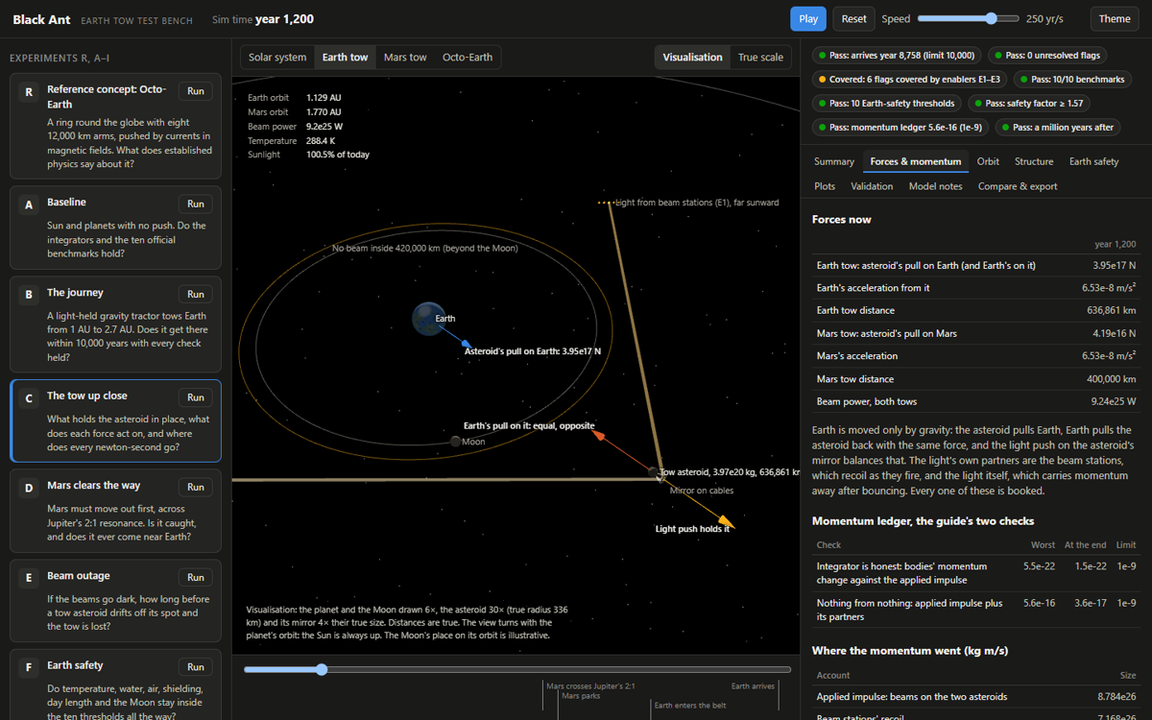
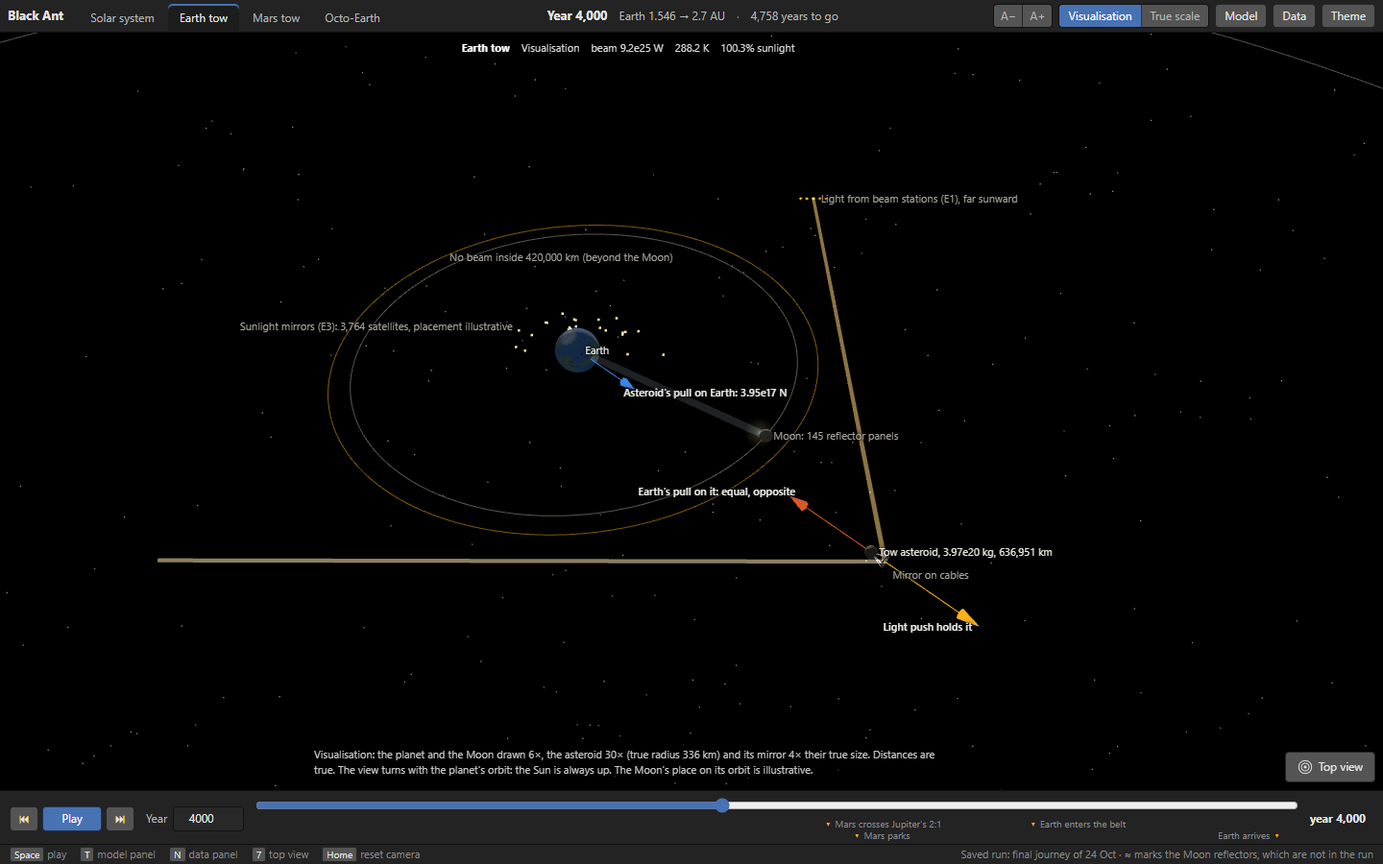
Team by name, contributions by the work each did; internal notes out of the public docs
- docs/contributions.md: one section per member by name (Ashish Bharti,
  Akhil Semwal, Madhukar Verma, Sushmit Sukla, Prabhanshu Kerketa), listing
  what each actually did with the pull requests; Claude Code noted as a tool.
- "Member N" labels: names in the risk register and enablers, none in code
  comments; README and CONTEXT.md name the team.
- Removed the questions for the organisers (rules.md, status.md) and
  docs/video-script.md from the public docs.
- problem.md: six winning conditions, two of them checked by ten items each
  (ten safety thresholds, ten benchmarks); "what we still lack" rewritten.
- Report figures re-taken from the new test bench; Q&A gives the test bench
  link and the journey's run time (about an hour and a half).

diff --git a/sim/export.py b/sim/export.py
@@ -19,6 +19,6 @@ def write_outputs(summary: dict, frames: list[dict], out_dir: Path | str | None 
     if end_state is not None:
         (out / "end_state.json").write_text(json.dumps(end_state), encoding="utf-8")
     viewer = ROOT / "viewer" / "public"
-    if viewer.is_dir():  # once Member 4's viewer exists, keep its copy current
+    if viewer.is_dir():  # keep the test bench's copy current
         (viewer / "run.json").write_text(json.dumps(run), encoding="utf-8")
     return out

diff --git a/sim/checks/structure.py b/sim/checks/structure.py
@@ -1,4 +1,4 @@
-"""Structural checks for each tow, run at every check step. Member 3 owns and extends these.
+"""Structural checks for each tow, run at every check step.
 
 Safety factor = strength / stress, and the brief requires at least 1.5 for every structure.
 Design sizes come from config.yaml (structures section); material limits from the enablers section.

diff --git a/sim/checks/safety.py b/sim/checks/safety.py
@@ -1,4 +1,4 @@
-"""Earth-safety checks, run at every check step. Member 2 owns and extends these.
+"""Earth-safety checks, run at every check step.
 
 Each returns a check() result; limits come from config.yaml (safety and enablers sections).
 """

diff --git a/sim/checks/__init__.py b/sim/checks/__init__.py
@@ -1,1 +1,1 @@
-"""Checks run on each saved frame. safety.py belongs to Member 2, structure.py to Member 3."""
+"""Checks run on each saved frame: Earth safety (safety.py) and structures (structure.py)."""

diff --git a/docs/risk-register.md b/docs/risk-register.md
@@ -9,11 +9,11 @@ Rules: the participant guide (Planetary Propulsion Hackathon); see `docs/problem
 
 | Risk | Why it matters | How we check | Counter | Status | Owner |
 | --- | --- | --- | --- | --- | --- |
-| The rulebook's safety appendix (the thresholds) is still not published | "Every threshold in the rulebook appendix" is a winning condition | Every limit sits in `config.yaml` with its source | Adopted the ten thresholds of the company's reference demo (octo-earth-simulator.vercel.app), checked every 100 days; if the rulebook differs, change the numbers and re-run | Holds (ask to confirm) | Member 5 (#9) |
+| The rulebook's safety appendix (the thresholds) is still not published | "Every threshold in the rulebook appendix" is a winning condition | Every limit sits in `config.yaml` with its source | Adopted the ten thresholds of the company's reference demo (octo-earth-simulator.vercel.app), checked every 100 days; if the rulebook differs, change the numbers and re-run | Holds (ask to confirm) | Ashish, Akhil (#9) |
 | Team size: the guide said 2 to 4 members; we are 5 | Could affect eligibility | Asked the organisers | Five members are allowed (the rule was added after the guide) | Holds | Ashish |
-| Enablers are fixed at the mid-point check-in | They cannot change afterwards | `docs/enablers.md`; every use is a flag naming its enabler | Three enablers, each bounded and matched to an allowed kind; E1 no longer claims to cancel its own recoil (it is booked) | Ready to declare | Member 3 (#4) |
-| "Fewer and smaller enablers score higher" | Scientific honesty is 15 marks | - | Each has a stated bound and a reason; we do not claim the energy bonus | Holds | Member 3 |
-| The official benchmarks | Validation is 20 marks; judges may change inputs | `uv run python -m sim.benchmarks`; runs on every pull request | All ten pass; inputs can be changed from the command line | Holds | Member 5 (#10) |
+| Enablers are fixed at the mid-point check-in | They cannot change afterwards | `docs/enablers.md`; every use is a flag naming its enabler | Three enablers, each bounded and matched to an allowed kind; E1 no longer claims to cancel its own recoil (it is booked) | Ready to declare | Ashish (#4) |
+| "Fewer and smaller enablers score higher" | Scientific honesty is 15 marks | - | Each has a stated bound and a reason; we do not claim the energy bonus | Holds | Ashish |
+| The official benchmarks | Validation is 20 marks; judges may change inputs | `uv run python -m sim.benchmarks`; runs on every pull request | All ten pass; inputs can be changed from the command line | Holds | Ashish, Akhil (#10) |
 | The 10,000-year deadline | A winning condition | Arrival year is a flag | Earth arrives in year 8,758 | Holds | Ashish |
 | "About 2.7 AU" | Exact target and tolerance | Million-year runs | Earth's orbit stays 2.698 to 2.702 AU | Holds | Ashish |
 | Moving Mars may be questioned | The brief protects Earth and life | Journey without Mars's tow | Without it Earth passes Mars at about 33,000 km; Mars has no known life | Ask organisers | Ashish |
@@ -25,31 +25,31 @@ Rules: the participant guide (Planetary Propulsion Hackathon); see `docs/problem
 
 | Risk | Why it matters | How we check | Counter | Status | Owner |
 | --- | --- | --- | --- | --- | --- |
-| **Beam outage: the asteroid falls toward Earth** | A lost asteroid passes about 15,000 km from Earth, tides about 90 times the Moon's | `sim/scenarios/outage.py`, worst phase (Mars's tow also running) | Shared E1 budget, structures sized for full power, E1 as independent stations. Holds through: full blackout 15 hours; half the stations down 1.25 days; a quarter down 2.8 days (was 3 hours) | Fixed, with a requirement: no single fault over a quarter of E1, faults answered within 12 hours | Member 3 |
-| Mars tow outage | Its asteroid would fall onto Mars | Same test, Mars's tow | Full blackout 4.75 days; half or a quarter of the stations down: 8+ days. During its 4x sprint (a few decades, asteroid at 200,000 km): full blackout 10.5 hours, half down 20 hours. Earth's tow, eased off meanwhile: 3.4 days | Fixed, with a requirement: during Mars's sprint, faults answered within 8 hours | Member 3 |
+| **Beam outage: the asteroid falls toward Earth** | A lost asteroid passes about 15,000 km from Earth, tides about 90 times the Moon's | `sim/scenarios/outage.py`, worst phase (Mars's tow also running) | Shared E1 budget, structures sized for full power, E1 as independent stations. Holds through: full blackout 15 hours; half the stations down 1.25 days; a quarter down 2.8 days (was 3 hours) | Fixed, with a requirement: no single fault over a quarter of E1, faults answered within 12 hours | Ashish |
+| Mars tow outage | Its asteroid would fall onto Mars | Same test, Mars's tow | Full blackout 4.75 days; half or a quarter of the stations down: 8+ days. During its 4x sprint (a few decades, asteroid at 200,000 km): full blackout 10.5 hours, half down 20 hours. Earth's tow, eased off meanwhile: 3.4 days | Fixed, with a requirement: during Mars's sprint, faults answered within 8 hours | Ashish |
 | Too little spare power | Steady need 8.37e25 W against an old cap of 8.5e25 W | Outage runs | Shared budget: 9% spare while Mars tows, 19% after, about a third during Mars's sprint (Earth's tow eases off) | Fixed | Ashish |
-| Structures too weak at full power | Recovery after a fault needs full power | `test_structures_hold_at_the_most_the_beam_can_push` | Earth tow sized for 1e26 W (cables 10.5 km2, anchor 10,500 km2, mirror radius 2,600 km); Mars tow for 4e25 W (4.2 km2, 4,200 km2, 1,650 km); Mars's asteroid now 1.6e20 kg at 400,000 km | Fixed | Member 3 (#5) |
+| Structures too weak at full power | Recovery after a fault needs full power | `test_structures_hold_at_the_most_the_beam_can_push` | Earth tow sized for 1e26 W (cables 10.5 km2, anchor 10,500 km2, mirror radius 2,600 km); Mars tow for 4e25 W (4.2 km2, 4,200 km2, 1,650 km); Mars's asteroid now 1.6e20 kg at 400,000 km | Fixed | Ashish (#5) |
 | Beam passes near Earth or the Moon | 1e26 W of light must not cross the Earth-Moon system | Every check: at least 420,000 km from Earth | Light arrives up to 30 degrees off the Sun line when needed | Holds | Ashish |
 | Asteroid drifts off its spot | Large drift is how a loss starts | Under 1% of its distance, every check | 10-day controller; trim and sprint motion fed forward and ramped | Holds | Ashish |
 | **Controller weaker than the pull's gradient** | A hovering asteroid is an unstable balance; at 100,000 km from Mars the pull's gradient worked on a 1.25-day timescale and the controller was only 0.62 times as strong (0.08 in the sprint), so Mars's asteroid held only through an exact model | New checks every 100 days: controller at least 3 times the gradient; step at least 3 times shorter than its timescale | Mars's asteroid 16 times heavier (1.6e20 kg) at 400,000 km, the same pull: 39 times the gradient (4.9 in the sprint), timescale 10 days (3.5 in the sprint). Earth's tow: 17 times, 6.5 days | Fixed | Ashish |
 | **Forces not booked with their reactions** | A winning condition; the guide's ledger check | `ledger.checks`, exact fractions | Bodies' momentum change equals the applied impulse to 5.5e-22 of it; applied impulse plus its partners to 5.6e-16 (limit 1e-9). Was 1.2e-8 before the stepper kept its rounding | Fixed | Ashish (#16) |
-| Tow mirror waste heat at Earth | Extra heating | Under 0.5% of sunlight | About 0.24% | Holds | Member 2 |
+| Tow mirror waste heat at Earth | Extra heating | Under 0.5% of sunlight | About 0.24% | Holds | Ashish |
 
 ## Earth's safety
 
 | Risk | Why it matters | How we check | Counter | Status | Owner |
 | --- | --- | --- | --- | --- | --- |
-| The tow pulls the Moon away | The guide: "simulate the Moon and check it stays bound" | 50-year Earth-Moon-asteroid-Sun runs at start, middle, end; the Moon's share of Earth's Hill sphere every check | Distance changes under 0.05%; the Moon sits at 0.26 of the Hill radius today and 0.095 at 2.7 AU (more tightly held) | Holds | Member 2 |
-| **Climate: the guide forbids assuming it** | Without help Earth would reach 150 K with no liquid water (our model and the demo's agree) | `sim/habitability.py`: mirrors built in 25-year batches; energy balance with ice-albedo feedback; the demo's ten thresholds every 100 days | Sunlight 0.995 to 1.010 of today's; temperature 287.8 to 288.8 K over the whole journey. Mirrors up to 8.5e8 km2 (E3 limit 1e9) | Covered (E3) | Member 2 (#1) |
-| Liquid water | At least 30% of the surface (the demo's threshold) | Share of the surface above 273 K from a latitude profile calibrated to today's 82% | Stays at about 81 to 83% | Holds | Member 2 |
-| Air | Surface pressure at least 50 kPa; N2 kept (Jeans lambda over 30) | Jeans parameter every check, exosphere temperature scaling with sunlight | Nothing removes air; lambda stays near 195 (limit 30) | Holds | Member 2 (#1) |
-| Day length | Changed by at most 1 s (the demo's threshold) | The tow asteroid's tidal torque on Earth, added up every check | About 2e-7 s over the whole journey: nothing touches Earth | Holds | Member 2 |
-| Runaway greenhouse | Absorbed sunlight under 282 W/m2 | Every check | About 238 to 241 W/m2 | Holds | Member 2 |
-| The tow outpulls the Moon's hold | Thrust under 0.01 of Earth's pull on the Moon | Every check | 0.0020 | Holds | Member 2 |
-| Magnetic shielding | At least 3 Earth radii (the demo's threshold) | Magnetopause distance every check | Grows from 10 to 13.9 Earth radii as the solar wind weakens | Holds | Member 2 |
-| **Asteroid impacts in the belt** | 2.7 AU is inside the main belt | 1,000 test asteroids on real orbits (JPL Small-Body Database), scaled to 1.2 million over 1 km | Without defence: one 1 km impact per about 127 years while crossing and 87 once parked (natural: one per 500,000). E1 nudges each one heading for Earth: 5 cm/s ten years ahead, about 1e14 W for a day | Covered (E1), said up front | Member 2 (#2) |
-| **Big asteroids pass near Earth** | Ceres, Pallas, Vesta, Hygiea cross or touch the new orbit; today: none within 0.01 AU in a million years | Million-year runs log every pass; journey checks 0.02 AU | Journey: Vesta passes twice at 0.018 AU, inside our 0.02 AU limit; each nudged 50 years ahead with 0.06 hours of a 1e25 W beam. Million years: 23 to 45 passes within 0.01 AU (three copies), each nudged with at most 0.6 hours | Covered (E1) | Member 2 (#2) |
-| **Axial tilt (seasons)** | At 2.7 AU Earth's axis turns at about 35 arcsec a year, near the 26 arcsec a year at which Jupiter and Saturn tip every orbit (s6) | `sim/spin.py` on the real spin axis from today; X9 reproduces today's 22.1 to 24.5 degrees | Plane trim onto the forced plane: swing 21.7 to 26.1 degrees (2.0 times today's; untrimmed 15 to 28). The rest: the sunlight mirrors re-aim about 1.4% of the light to keep today's seasons (the real Earth's own swing moves 0.7%) | Fixed in part; rest Covered (E3) | Ashish, Member 2 |
+| The tow pulls the Moon away | The guide: "simulate the Moon and check it stays bound" | 50-year Earth-Moon-asteroid-Sun runs at start, middle, end; the Moon's share of Earth's Hill sphere every check | Distance changes under 0.05%; the Moon sits at 0.26 of the Hill radius today and 0.095 at 2.7 AU (more tightly held) | Holds | Ashish |
+| **Climate: the guide forbids assuming it** | Without help Earth would reach 150 K with no liquid water (our model and the demo's agree) | `sim/habitability.py`: mirrors built in 25-year batches; energy balance with ice-albedo feedback; the demo's ten thresholds every 100 days | Sunlight 0.995 to 1.010 of today's; temperature 287.8 to 288.8 K over the whole journey. Mirrors up to 8.5e8 km2 (E3 limit 1e9) | Covered (E3) | Ashish (#1) |
+| Liquid water | At least 30% of the surface (the demo's threshold) | Share of the surface above 273 K from a latitude profile calibrated to today's 82% | Stays at about 81 to 83% | Holds | Ashish |
+| Air | Surface pressure at least 50 kPa; N2 kept (Jeans lambda over 30) | Jeans parameter every check, exosphere temperature scaling with sunlight | Nothing removes air; lambda stays near 195 (limit 30) | Holds | Ashish (#1) |
+| Day length | Changed by at most 1 s (the demo's threshold) | The tow asteroid's tidal torque on Earth, added up every check | About 2e-7 s over the whole journey: nothing touches Earth | Holds | Ashish |
+| Runaway greenhouse | Absorbed sunlight under 282 W/m2 | Every check | About 238 to 241 W/m2 | Holds | Ashish |
+| The tow outpulls the Moon's hold | Thrust under 0.01 of Earth's pull on the Moon | Every check | 0.0020 | Holds | Ashish |
+| Magnetic shielding | At least 3 Earth radii (the demo's threshold) | Magnetopause distance every check | Grows from 10 to 13.9 Earth radii as the solar wind weakens | Holds | Ashish |
+| **Asteroid impacts in the belt** | 2.7 AU is inside the main belt | 1,000 test asteroids on real orbits (JPL Small-Body Database), scaled to 1.2 million over 1 km | Without defence: one 1 km impact per about 127 years while crossing and 87 once parked (natural: one per 500,000). E1 nudges each one heading for Earth: 5 cm/s ten years ahead, about 1e14 W for a day | Covered (E1), said up front | Ashish (#2) |
+| **Big asteroids pass near Earth** | Ceres, Pallas, Vesta, Hygiea cross or touch the new orbit; today: none within 0.01 AU in a million years | Million-year runs log every pass; journey checks 0.02 AU | Journey: Vesta passes twice at 0.018 AU, inside our 0.02 AU limit; each nudged 50 years ahead with 0.06 hours of a 1e25 W beam. Million years: 23 to 45 passes within 0.01 AU (three copies), each nudged with at most 0.6 hours | Covered (E1) | Ashish (#2) |
+| **Axial tilt (seasons)** | At 2.7 AU Earth's axis turns at about 35 arcsec a year, near the 26 arcsec a year at which Jupiter and Saturn tip every orbit (s6) | `sim/spin.py` on the real spin axis from today; X9 reproduces today's 22.1 to 24.5 degrees | Plane trim onto the forced plane: swing 21.7 to 26.1 degrees (2.0 times today's; untrimmed 15 to 28). The rest: the sunlight mirrors re-aim about 1.4% of the light to keep today's seasons (the real Earth's own swing moves 0.7%) | Fixed in part; rest Covered (E3) | Ashish |
 | Eccentricity: sunlight swinging through the year | Untrimmed, Earth drifts to 0.09 at 2.7 AU | Million-year runs | Shape trim onto the forced 0.03: at most 0.060 over a million years (real Earth 0.051; limit 0.07) | Fixed | Ashish |
 
 ## Orbits and other bodies
@@ -69,9 +69,9 @@ Rules: the participant guide (Planetary Propulsion Hackathon); see `docs/problem
 | --- | --- | --- | --- | --- | --- |
 | Official benchmarks fail with changed inputs | Judges may change them | `sim/benchmarks.py` takes inputs from the command line; `tests/test_official_benchmarks.py` reruns 1-4 and 8-10 with changed inputs | Benchmark 4 failed at e = 0.7 (3e-6 a against 1e-6): its steps now scale with the pericentre's timescale, and it passes from e = 0 to 0.9. Benchmark 5 at coarser steps (0.5 days) misses 1e-9 (1.4e-9): the step is a method choice; at 0.25 days it passes for 5 and 20 years | Fixed | Ashish (#10) |
 | Step size | "Halve the time step and show the answer does not change" | Journey at 1 day and 0.5 day | Final design: Earth arrives in year 8,730 against 8,758.1 (0.3%), orbit 2.70 against 2.7006 AU, eccentricity 0.0333 against 0.0331; Mars parks in 5,170 against 5,168; 0 unresolved flags; the ledger closes to 2.3e-16. The big asteroids' closest passes depend on timing (Vesta 0.037 against 0.018 AU), so E1's nudges, not the miss distance, are the defence. Mars's crossing is chaotic at either step, which is why it now sprints | Holds | Ashish |
-| Integrator wrong | Everything rests on it | Official benchmarks 4 to 8; X6 against REBOUND | Pass | Holds | Member 5 |
-| Tilt model wrong | The seasons finding rests on it | X9: real solar system, 50,000 years | 22.5 to 24.0 degrees (known 22.1 to 24.5) | Holds | Member 5 |
-| Belt sample unlike the real belt | Our first sample was too cold | Compared with 20,000 real orbits | Sample drawn from real orbits | Fixed | Member 2 |
+| Integrator wrong | Everything rests on it | Official benchmarks 4 to 8; X6 against REBOUND | Pass | Holds | Ashish, Akhil |
+| Tilt model wrong | The seasons finding rests on it | X9: real solar system, 50,000 years | 22.5 to 24.0 degrees (known 22.1 to 24.5) | Holds | Ashish, Akhil |
+| Belt sample unlike the real belt | Our first sample was too cold | Compared with 20,000 real orbits | Sample drawn from real orbits | Fixed | Ashish |
 | A climate bug | The mirror schedule's 100-day growth estimate overbuilt mirrors (sunlight up to 11% high) | Final-run flags | Growth estimated over whole 25-year batches; final run: sunlight 0.995 to 1.010 of today's, temperature 287.8 to 288.8 K | Fixed | Ashish |
 | Runs are slow | Journey about 70 minutes with the exact ledger and the belt | Timings in logs | Start long runs early; `--no-belt` saves about 15 minutes | Open | Ashish |
 

diff --git a/docs/contributions.md b/docs/contributions.md
@@ -3,26 +3,54 @@
 The guide: "Careers offers are based on individual contribution, so keep a short log of who built what. Every
 member should be able to explain the code and the physics."
 
-Each member writes their own lines, as they go: the date, what you built or decided, the pull request. Keep it
-honest and short. The git history and the pull requests are the record behind every line.
+Each section lists what that person actually did, with the pull request where there is one. The git history and
+the pull requests are the record behind every line. Members: check your own section and add anything missing, in
+your own words.
 
-## Ashish (Member 1: physics core; reviews and merges)
+## Ashish Bharti (team lead)
 
-*To be written by Ashish.* The git history before 24 October evening is his: every commit up to `b101f2f`, merged
-in [#18](https://github.com/Ashish000011/black-ant/pull/18) and [#19](https://github.com/Ashish000011/black-ant/pull/19).
+- **Concept and approach:** the gravity tractor held in place by light, Mars moved out of the way first, sunlight
+  mirrors to keep Earth at today's sunlight, and the three declared enablers.
+- **The model and its results:** the simulation in `sim/` (gravity and the steppers, the tows and their beams, the
+  momentum ledger, climate and Earth-safety checks, structures, the ten official benchmarks), the final journey in
+  `results/`, the million-year runs and the Octo-Earth audit ([#18](https://github.com/Ashish000011/black-ant/pull/18),
+  [#19](https://github.com/Ashish000011/black-ant/pull/19)).
+- **The first 3D test bench**, the technical report, the risk register and the docs (#18, #19); the half-step
+  convergence check ([#24](https://github.com/Ashish000011/black-ant/pull/24)).
+- **Running the team:** the task issues (#1 to #17), reviews and merges.
 
-## Member 2 (safety and environment)
+## Akhil Semwal
 
-*To be written by Member 2.*
+- **Research and verification:** the research behind the concept, and checking the physics and the numbers.
+- Raised the idea of parking Earth in a Kirkwood gap to dodge asteroids. The check showed the gaps are gaps in
+  orbit size, not in space, so Earth stays at 2.7 AU.
+- Next: a realistic Octo-Earth reference view in the test bench
+  ([#27](https://github.com/Ashish000011/black-ant/issues/27)).
 
-## Member 3 (structures and enablers)
+## Madhukar Verma
 
-*To be written by Member 3.*
+- **`CONTEXT.md` and `CLAUDE.md`:** the whole project in one file, for new teammates and AI assistants
+  ([#23](https://github.com/Ashish000011/black-ant/pull/23)).
+- **The Blender-style test bench:** floating Scene, Model and Data panels, the top view, close-ups of the Moon and
+  the tow asteroids, the mission line, text size, the million-years explainer and the phone layout (#23).
+- **Moon reflectors for night light** (`sim/night.py` and its tests): how much moonlight is left at 2.7 AU and the
+  mirror area that brings it back (#23).
+- **Plan S study:** swapping Earth and Mars instead of pushing Mars out (`sim/scenarios/swap.py`) (#23).
+- Q&A and risk register for the swap, night light and where the tow asteroid comes from
+  ([#25](https://github.com/Ashish000011/black-ant/pull/25), in review).
 
-## Member 4 (3D test bench)
+## Sushmit Sukla
 
-*To be written by Member 4.*
+- Started this contribution log, and pointed the status page and README to the new deliverables
+  ([#21](https://github.com/Ashish000011/black-ant/pull/21)).
 
-## Member 5 (validation and pitch)
+## Prabhanshu Kerketa
 
-*To be written by Member 5.*
+- The technical report as a PDF with every number checked against `results/`, the pitch talk track, the Q&A with
+  who answers what, a voiceover tool and the submission checklist
+  ([#20](https://github.com/Ashish000011/black-ant/pull/20); to be resubmitted with the review's fixes).
+
+## Tools
+
+We used Claude Code, an AI coding assistant, throughout. Commits it helped write carry a "Co-Authored-By: Claude"
+line. Every member should still be able to explain the code and the physics behind their part.

diff --git a/CONTEXT.md b/CONTEXT.md
@@ -24,8 +24,8 @@ Earth onto the orbit shape and plane Jupiter forces at 2.7 AU (the "arrival trim
 12,000 km arm buckles past 471 km (steel) or 1,444 km (nanotube). Audited in `sim/scenarios/octo.py`, test X8.
 
 - Repo: `github.com/Ashish000011/black-ant`. Nobody pushes to `main`: branch, PR, Ashish reviews and merges.
-- Team roles (GitHub issue labels): member-1 physics, member-2 safety, member-3 structures and enablers,
-  member-4 3D viewer, member-5 validation and pitch.
+- Team: Ashish Bharti (lead), Madhukar Verma, Akhil Semwal, Sushmit Sukla, Prabhanshu Kerketa. Who did what is in
+  `docs/contributions.md`, by the work each actually did.
 
 ## 2. The six winning conditions and where we stand (final run, 24 Oct)
 
@@ -64,7 +64,7 @@ Anything new (e.g. Moon reflectors) must fit inside an existing bound. Moon refl
 | `results/` | The final run's outputs. `run.json` has one frame per 10 years with positions of **only Earth, Mars, Jupiter and the Earth tow asteroid** |
 | `viewer/` | 3D test bench (Vite 6, Three.js 0.170, plain JS). **Replays saved runs; the official numbers are not computed in the browser.** Published to GitHub Pages from `main` (`.github/workflows/pages.yml`). `src/main.js` wiring and keys; `src/scene.js` 3D views incl. top view and close-ups, `noStage` fallback without WebGL; `src/studio.js` Blender-style panels (Scene tab, Model, Data, the million-years explainer); `src/estimates.js` values derived from the run (year length, Sun size, tides, light time) and the Moon reflectors (port of `night.py`); `src/bodies.js` positions of every body (run or Kepler); `src/panels.js` the nine results tabs; `src/data.js` loading and interpolation |
 | `viewer/scripts/video.mjs` | Renders the demo video through `?capture` mode and `window.bench` (run, view, tab, time, scale, orbit, caption, frame). **Keep that API working.** |
-| `docs/` | problem, approach, enablers, report (technical report), status, risk register, qa, rules, video script, momentum record, contributions |
+| `docs/` | problem, approach, enablers, report (technical report), status, risk register, qa, rules, momentum record, contributions |
 | `tests/` | Official benchmarks, extra checks, safety and structure checks, Moon, night |
 
 Commands:
@@ -87,10 +87,10 @@ cd viewer && npm ci && npm run dev        # test bench locally
 | Runnable simulation + 3D test bench | Done; Blender-style test bench in PR #23 |
 | Technical report (8 pages max) | Drafted (`docs/report.md`); needs PDF export |
 | Conservation and momentum record | Done (`docs/momentum-record.md`) |
-| Demo video (3 min max) | Done, needs voiceover (`media/black-ant-demo.mp4`); shows the old layout, re-render after PR #23 |
+| Demo video (3 min max) | Done, captions on screen (`media/black-ant-demo.mp4`); shows the old layout, re-render after PR #23 |
 | Pitch deck (7 min) | Drafted, 13 slides (shared deck, ask Ashish) |
 | Half-step convergence check | Done (numbers in section 2) |
-| Still open | Contribution log (#17); questions to organisers (`docs/rules.md`) |
+| Still open | Each member checks their section of `docs/contributions.md` (#17) |
 
 ## 6. Known limits and gotchas
 
@@ -234,3 +234,8 @@ Ideas, not started:
   done, `swap.py` reads its 0.05 AU limit from `config.yaml` and its docstring names `--longterm`, README lists
   `swap.py`, the top bar wraps at phone width, `night.py` says its reflector area is conservative, CLAUDE.md asks
   for updates on notable changes only. Next PRs (section 10) started in their own sessions.
+- 25 Oct: Team by name. `docs/contributions.md` rewritten by name and by the work each member actually did
+  (Claude Code noted as a tool, not a member); "Member N" labels replaced by names in the risk register and
+  enablers, and dropped from code comments. Organiser questions and `docs/video-script.md` removed from the public
+  docs; the six winning conditions vs ten thresholds/benchmarks made explicit in `docs/problem.md`; report figures
+  re-taken from the new test bench. Akhil assigned the Octo-Earth reference view (#27).

diff --git a/docs/status.md b/docs/status.md
@@ -11,10 +11,10 @@ official benchmarks pass; the momentum ledger closes to 5.6 × 10^-16 (limit 10^
 | Deliverable | Status | Where |
 | --- | --- | --- |
 | Source code with README: setup, run, test | Done | this repository; [README](../README.md) |
-| Runnable simulation | Done | the Python model; the 3D test bench in `viewer/` ([ashish000011.github.io/black-ant](https://ashish000011.github.io/black-ant/) once on `main`) |
+| Runnable simulation | Done | the Python model; the 3D test bench in `viewer/` ([ashish000011.github.io/black-ant](https://ashish000011.github.io/black-ant/)) |
 | Technical report, at most 8 pages | Drafted | [report.md](report.md); export to PDF for submission |
 | Conservation and momentum record | Done | [momentum-record.md](momentum-record.md) |
-| Demo video, at most 3 minutes | Done, needs a voiceover | [media/black-ant-demo.mp4](../media/black-ant-demo.mp4) (2 min 20 s); script in [video-script.md](video-script.md) |
+| Demo video, at most 3 minutes | Done; being re-rendered with the new test bench | [media/black-ant-demo.mp4](../media/black-ant-demo.mp4) (2 min 20 s, captions on screen) |
 | Pitch deck, 7 minutes | Drafted (13 slides, timed notes) | shared deck (ask Ashish for the link); answers for questions in [qa.md](qa.md) |
 | Mid-point review, 5 minutes | Ready | shared deck (ask Ashish); enablers declared in [enablers.md](enablers.md) |
 
@@ -30,7 +30,7 @@ official benchmarks pass; the momentum ledger closes to 5.6 × 10^-16 (limit 10^
 | #6 Octo-Earth audit: arm stress and slide | Done: `sim/scenarios/octo.py`; slide in both decks |
 | #7 3D viewer playing the run | Done: `viewer/` |
 | #8 Safety panel, Octo-Earth tab, deploy, demo clips | Done: tabs, Octo-Earth view, Pages workflow, demo video |
-| #9 Rules from the guide, questions for the organisers | Done: [rules.md](rules.md) |
+| #9 Rules from the guide | Done: [rules.md](rules.md) |
 | #10 Official benchmarks and extra checks | Done: all pass, also with changed inputs |
 | #11 Pitch deck, demo video, Q&A, submission | Deck, video and Q&A done; submission left |
 | #12 Octo-Earth scenario (now test X8) | Done |
@@ -38,15 +38,14 @@ official benchmarks pass; the momentum ledger closes to 5.6 × 10^-16 (limit 10^
 | #14 Mid-point check-in: baseline and enablers | Ready to present |
 | #15 Technical report | Drafted: [report.md](report.md) |
 | #16 Conservation and momentum record | Done |
-| #17 Contribution log | Started: [contributions.md](contributions.md) has a section for each member; each adds their own lines |
+| #17 Contribution log | Written by name and by the work each did: [contributions.md](contributions.md); each member checks their section |
 
 ## Still to do before the final
 
-1. **Report to PDF**, deck rehearsal, **voiceover** on the video.
-2. **Contribution log** (#17): careers offers go by individual contribution, so each member adds what they did to
-   [contributions.md](contributions.md).
-3. **Ask the organisers** the questions in [rules.md](rules.md): the rulebook's safety thresholds, moving Mars,
-   asteroid defence within E1.
+1. **Report to PDF** and deck rehearsal.
+2. **Contribution log** (#17): careers offers go by individual contribution, so each member checks their section
+   of [contributions.md](contributions.md) and adds anything missing.
+3. **Demo video** re-rendered with the new test bench (Madhukar), and a realistic Octo-Earth reference view (Akhil).
 
 ## How to look at it
 

diff --git a/docs/problem.md b/docs/problem.md
@@ -21,16 +21,19 @@ All of these are required to win:
 | Winning condition | What it means in practice |
 | --- | --- |
 | Earth reaches its target orbit | Within 10,000 simulated years |
-| Earth stays safe | Every threshold in the rulebook appendix holds for the whole run |
+| Earth stays safe | Every threshold in the rulebook appendix holds for the whole run (we use the ten thresholds below) |
 | The structure survives | Every structural safety factor stays at or above 1.5 |
-| The code is validated | Every applicable benchmark passes |
+| The code is validated | Every applicable benchmark passes (the guide's ten official benchmarks) |
 | The physics is honest | Every force booked with its reaction; energy and momentum conserved |
 | No unresolved flags | Only flags caused by your declared hypothetical enablers are allowed |
 
 Teams may declare up to three **hypothetical enablers** (section 7 of the rulebook). Entries that
 honestly show their concept failing are still scored and can win other awards.
 
-## What we have, and what we still lack
+## Where the rules come from
+
+Six winning conditions, above. Two of them are checked by ten items each: "Earth stays safe" by ten safety
+thresholds, and "the code is validated" by ten official benchmarks.
 
 - **The participant guide** (Planetary Propulsion Hackathon, 24 to 26 October): the ten official benchmarks
   (all pass: `uv run python -m sim.benchmarks`), the enabler rules (declared in writing at the mid-point
@@ -38,9 +41,10 @@ honestly show their concept failing are still scored and can win other awards.
 - **Team size:** the guide says 2 to 4; the organisers later allowed 5.
 - **The company's reference demo**, [octo-earth-simulator.vercel.app](https://octo-earth-simulator.vercel.app)
   ("what the company expects"; they call it about 30% successful). Its Safety thresholds panel and Earth safety
-  tab give ten Earth-safety thresholds, which we adopt: global mean temperature 263 to 308 K; liquid water on at
+  tab give ten Earth-safety thresholds, which we adopt (temperature has a lower and an upper limit, so nine checks
+  carry ten numbers): global mean temperature 263 to 308 K; liquid water on at
   least 30% of the surface; absorbed sunlight under the runaway-greenhouse limit (282 W/m2); surface pressure at
   least 50 kPa; N2 kept (Jeans lambda over 30); magnetopause at least 3 Earth radii; day length changed by at
   most 1 s; the Moon inside 0.49 of Earth's Hill radius; thrust under 0.01 of Earth's pull on the Moon.
-- **Still missing:** the rulebook itself. If its appendix differs from the demo's thresholds, the owner changes the
-  number in [`config.yaml`](../config.yaml) and the journey is re-run; nothing else has to change.
+- **The rulebook's appendix** was not published while we built this. If its thresholds differ from the demo's,
+  change the numbers in [`config.yaml`](../config.yaml) and re-run the journey; nothing else has to change.

diff --git a/README.md b/README.md
@@ -107,8 +107,7 @@ checks are X1 to X9 in `tests/test_extra_checks.py` and `tests/test_checks.py`.
 
 - **Nobody pushes to `main`.** Make a branch for your issue (`m2/safety-report`), push it, and open a
   pull request. Ashish reviews and merges; the quick tests must pass first.
-- **Your tasks are GitHub issues**, labelled by role: `member-1` physics core, `member-2` safety and
-  environment, `member-3` structures and enablers, `member-4` 3D viewer, `member-5` validation and pitch.
+- **Your tasks are GitHub issues.** Who did what is in [docs/contributions.md](docs/contributions.md).
 - **Rules live in `config.yaml`.** Every limit has its source next to it. If the organisers change a rule,
   change the number there and ask for a re-run; don't hard-code numbers anywhere else.
 - **Numbers on slides come from `results/`**, never from memory.
@@ -123,7 +122,7 @@ checks are X1 to X9 in `tests/test_extra_checks.py` and `tests/test_checks.py`.
 | `docs/approach.md` | Our plan, the physics, the machine, what we found and fixed |
 | `docs/status.md` | Where we are: every deliverable and issue, and what is left |
 | `docs/report.md` | The technical report (a copy of the shared document), with figures in `docs/img/` |
-| `docs/qa.md`, `docs/rules.md`, `docs/video-script.md` | Answers for the questions, the guide's rules and where each is met, the video's shots and voiceover |
+| `docs/qa.md`, `docs/rules.md` | Answers for the judges' questions; the guide's rules and where each is met |
 | `docs/contributions.md` | Who built what: each member's own lines, for the careers offers |
 | `docs/risk-register.md` | Every risk: why it matters, how we check it, the counter, its status, its owner |
 | `media/` | The demo video |
@@ -138,7 +137,7 @@ checks are X1 to X9 in `tests/test_extra_checks.py` and `tests/test_checks.py`.
 | `sim/habitability.py` | Sunlight, the sunlight mirrors' build schedule, temperature, shielding, the Moon's Hill sphere |
 | `sim/night.py` | Night light after the move: moonlight, and Moon reflectors (light and heat), for the test bench's estimates |
 | `sim/em.py` | Lorentz force and Biot-Savart fields (benchmarks 1 to 3, and the Octo-Earth audit) |
-| `sim/checks/` | Safety (Member 2) and structure (Member 3) checks, run every 100 days |
+| `sim/checks/` | Earth-safety and structure checks, run every 100 days |
 | `sim/belt.py` | 1,000 test asteroids on real orbits: close passes and the impact estimate |
 | `sim/secular.py` | The arrival trim: steering Earth's orbit shape and plane |
 | `sim/spin.py` | Earth's spin axis, axial tilt and seasons |

diff --git a/docs/rules.md b/docs/rules.md
@@ -46,15 +46,8 @@ thresholds come from the company's reference demo (see the last section).
 | Runnable simulation | The Python model, and the test bench on GitHub Pages (`viewer/`) |
 | Technical report, at most 8 pages | Drafted as a shared document; exported to PDF for submission |
 | Conservation and momentum record | `docs/momentum-record.md` |
-| Demo video, at most 3 minutes | 2 minutes 20 seconds; script in `docs/video-script.md` |
+| Demo video, at most 3 minutes | 2 minutes 20 seconds, `media/black-ant-demo.mp4` |
 | Pitch deck: 7 minutes, then 5 of questions | Deck drafted; answers in `docs/qa.md` |
 
 Judging: physical correctness 30, validation and numerical rigour 20, scientific honesty 15, depth 15,
 visualisation and usability 10, presentation and questions 10, energy bonus up to 10 more.
-
-## Questions for the organisers
-
-1. The rulebook's safety appendix: are its thresholds the ten in the company's demo? If not, which numbers?
-2. Is a team of five confirmed in writing? (The guide says 2 to 4; we were told 5 is allowed.)
-3. Does "access to an asteroid of stated mass" cover two asteroids (one for Earth, one for Mars) under one enabler?
-4. Is a web link to the test bench enough as the runnable simulation, or must we also demo from a laptop?

diff --git a/docs/report.md b/docs/report.md
@@ -136,7 +136,7 @@ Our own checks add what the benchmarks leave out: Kepler's third law (X1), energ
 
 Earth arrives in year 8,758 at 2.7006 AU, with an eccentricity of 0.033 and a tilt of 1.29° to today's ecliptic, moving at 17.6 km/s. Mars is parked at 3.641 AU in year 5,168, so it is out of Earth's way 3,600 years before Earth gets there.
 
-![The journey at year 5,200 in the test bench: Mars parked at 3.64 AU, Earth at 1.74 AU, and the orbit-size chart](img/journey.png)
+![The journey at year 5,200 in the test bench: Mars parked at 3.64 AU, Earth at 1.74 AU, every body in the Scene panel and Earth now against year 0 in the Data panel](img/journey.png)
 
 Earth's orbit grows slowly at first and faster later: the same pull adds more to a wider orbit. Mars's climb steepens near 3.3 AU, where its tow sprints across Jupiter's 2:1 resonance. The two planets come closest at the very start (0.373 AU, an ordinary Mars opposition), never later. The beams of both tows together peaked at 9.27 × 10^25 W. Two hundred years after arrival, with the tows gone, Earth sits at 2.699 AU with an eccentricity of 0.034.
 
